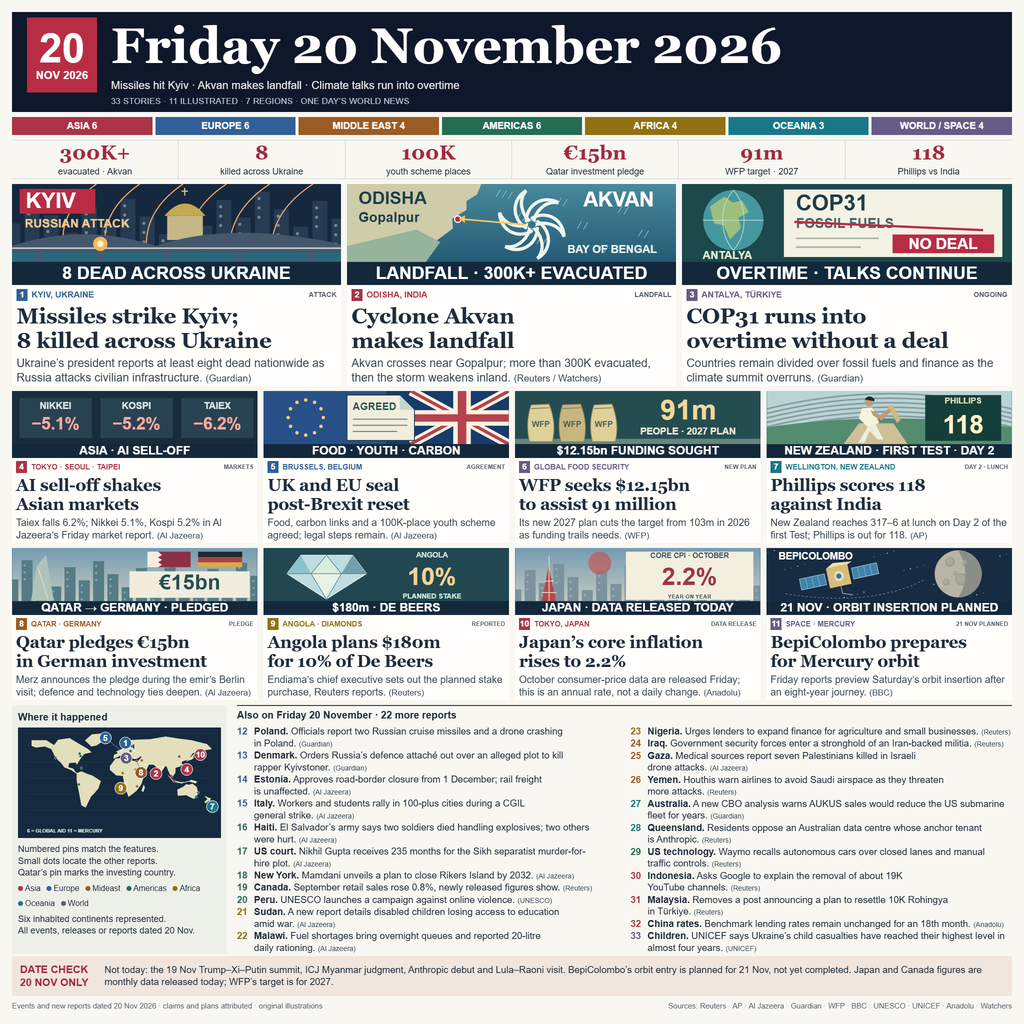
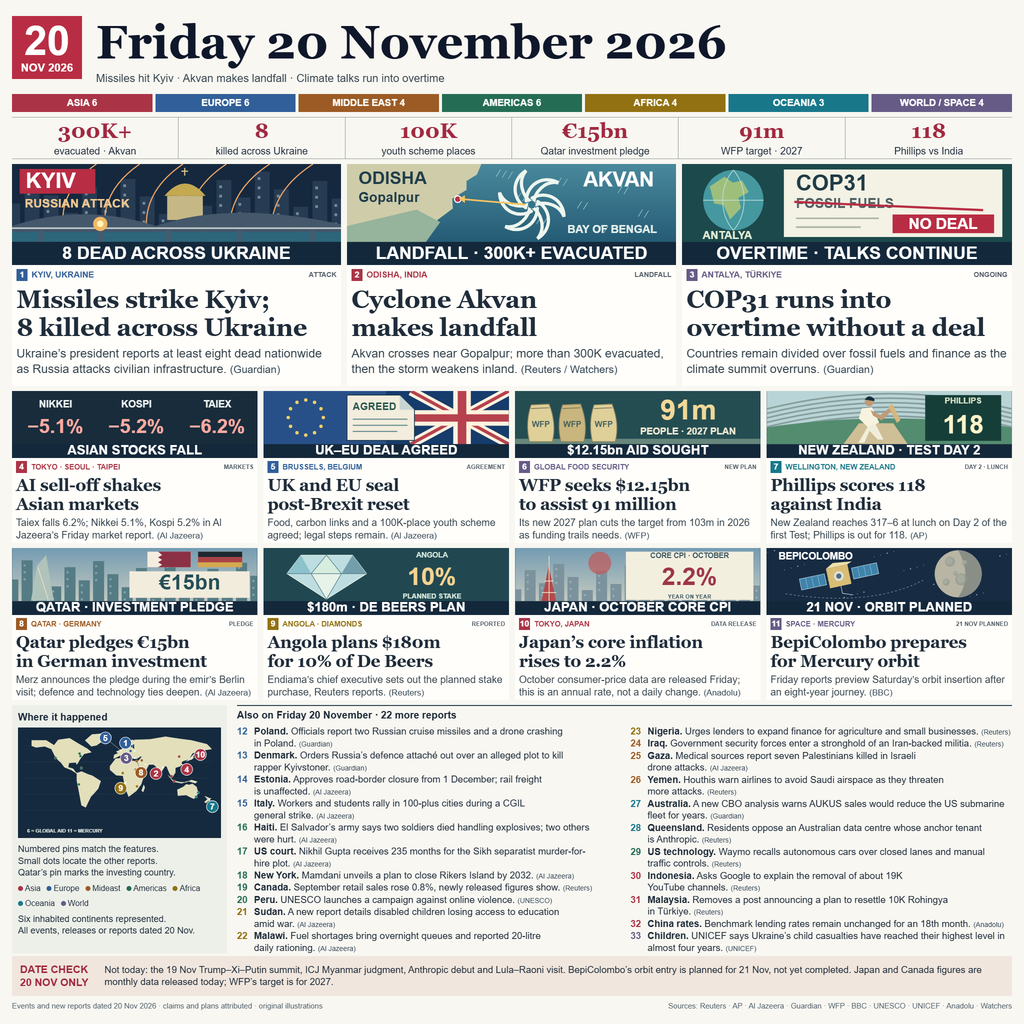
Strengthen editorial hierarchy and simplify news labels

diff --git a/render.html b/render.html
@@ -4,21 +4,20 @@
 *{box-sizing:border-box}
 html,body{margin:0;padding:0;background:#f8f7f2;color:#1f2c3a}
 body{font-family:Arial,sans-serif}
-.page{width:2048px;height:2048px;padding:24px;display:grid;grid-template-rows:200px 36px 78px 404px 304px 304px 492px 80px 22px;gap:10px}
-.date-panel{background:#0f172a;color:#fff;padding:10px 30px;display:grid;grid-template-columns:140px 1fr;column-gap:28px;align-content:center}
-.calendar{background:#b82d43;color:#fff;display:flex;flex-direction:column;justify-content:center;text-align:center;height:150px}
+.page{width:2048px;height:2048px;padding:24px;display:grid;grid-template-rows:154px 36px 84px 444px 304px 304px 492px 80px 22px;gap:10px}
+.date-panel{background:#f8f7f2; color:#0f172a; padding:6px 0; display:grid; grid-template-columns:140px 1fr; column-gap:28px; align-content:center}
+.calendar{background:#b82d43;color:#fff;display:flex;flex-direction:column;justify-content:center;text-align:center;height:126px}
 .calendar strong{font-size:82px;line-height:1}
 .calendar span{font-size:22px;font-weight:700;letter-spacing:0.01em}
-h1{font:700 100px/1.12 Georgia,serif;margin:0;white-space:nowrap}
-.date-panel .subline{font-size:22px;line-height:1.25;margin:10px 0 0;color:#e5e6e3}
-.edition-note{font-size:17px;line-height:1.25;letter-spacing:0.01em;margin:8px 0 0;color:#b9cad3}
+h1{font:700 94px/1.12 Georgia,serif;margin:0;white-space:nowrap}
+.date-panel .subline{font-size:22px;line-height:1.25;margin:6px 0 0;color:#36444e}
 .regions{display:flex;gap:6px;align-items:stretch}
 .region{flex:1;display:flex;justify-content:center;align-items:center;background:var(--region);color:#fff;font-size:19px;font-weight:700;white-space:nowrap}
-.figures{display:grid;grid-template-columns:repeat(6,1fr);align-items:center;border-top:1px solid #c8ceca;border-bottom:1px solid #c8ceca}
-.figure{text-align:center;border-right:1px solid #c8ceca;display:flex;flex-direction:column;justify-content:center;height:76px}
+.figures{display:grid;grid-template-columns:repeat(6,1fr);align-items:center;border-top:1px solid #909a95;border-bottom:1px solid #909a95}
+.figure{text-align:center;border-right:1px solid #909a95;display:flex;flex-direction:column;justify-content:center;height:82px}
 .figure:last-child{border:0}
-.figure strong{font:700 40px/1.2 Georgia,serif;color:#a12940}
-.figure span{font-size:18px;line-height:1.4;margin-top:2px}
+.figure strong{font:700 42px/1.2 Georgia,serif;color:#a12940}
+.figure span{font-size:20px;line-height:1.4;margin-top:2px}
 .stories{display:grid;gap:12px;min-height:0}
 .leads{grid-template-columns:658px 658px 660px}
 .supporting{grid-template-columns:repeat(4,1fr)}
@@ -29,9 +28,11 @@ h1{font:700 100px/1.12 Georgia,serif;margin:0;white-space:nowrap}
 .locator{display:flex;gap:8px;align-items:center;font-size:17px;font-weight:700;line-height:1.4;margin:0;color:var(--region);white-space:nowrap}
 .locator .number{display:inline-flex;min-width:22px;justify-content:center;color:#fff;background:var(--region);font-size:17px}
 .locator .kind{margin-left:auto;color:#59636c;font-size:14px}
-h2{font:700 44px/1.12 Georgia,serif;letter-spacing:-.5px;margin:6px 0}
+h2{font:700 50px/1.12 Georgia,serif;letter-spacing:-.5px;margin:9px 0}
 .summary{font-size:23px;line-height:1.25;margin:0;color:#36444e}
 .credit{font-size:19px;font-style:normal;color:#334554;white-space:nowrap}
+.leads .summary{font-size:24px;line-height:1.28}
+.leads .credit{font-size:21px}
 .supporting .scene{height:134px}
 .supporting h2{font-size:34px;line-height:1.13;margin:5px 0}
 .supporting .story-copy{padding:6px 8px 2px}
@@ -65,7 +66,7 @@ a{color:inherit}
 </style><style id="gesso-text-wrap">h1,h2,h3{text-wrap:balance}p,li,figcaption,blockquote{text-wrap:pretty}</style>
 <style id="gesso-font-smoothing">html{-webkit-font-smoothing:antialiased;-moz-osx-font-smoothing:grayscale}</style>
 </head><body><main class="page">
-<header class="date-panel"><div class="calendar"><strong>20</strong><span>NOV 2026</span></div><div><h1>Friday 20 November 2026</h1><p class="subline">Missiles hit Kyiv · Akvan makes landfall · Climate talks run into overtime</p><p class="edition-note">33 STORIES · 11 ILLUSTRATED · 7 REGIONS · ONE DAY’S WORLD NEWS</p></div></header>
+<header class="date-panel"><div class="calendar"><strong>20</strong><span>NOV 2026</span></div><div><h1>Friday 20 November 2026</h1><p class="subline">Missiles hit Kyiv · Akvan makes landfall · Climate talks run into overtime</p></div></header>
 <div class="regions"><!-- REGIONS --></div>
 <div class="figures"><!-- FIGURES --></div>
 <section class="stories leads"><!-- LEADS --></section>

diff --git a/AUDIT.md b/AUDIT.md
@@ -100,3 +100,48 @@ Final source credit type is 19px for leads and 17px for supporting features, res
 ### Transcript checkpoint
 
 The current CLI discovers both recorded OpenCode sessions, including this upgrade, without editing their store. Its bundle dry run reports that no session carries the actual system prompt; it also requires the explicit MCP declaration (no external MCP server was used). A complete new transcript bundle and its pre-submit check remain pending recovery of the authentic system-prompt setup. The prior build labelled AGENTS.md as its system prompt; that instruction file alone does not establish the actual harness prompt. Logs were not fabricated or rewritten to fill that gap. Local rendering and runtime verification are complete; this is a submission-preparation limitation.
+
+## Second local upgrade · screenshot-guided editorial hierarchy
+
+This is the current candidate; it supersedes the preceding artifact sizes and image hashes. Its anchor is local commit `da75807`, not a newly submitted entry. The user's design comparison prompted lighter paper/ink treatment, stronger emphasis on the three leads, simpler picture captions and more visible numeric context. The comparison was interpreted as qualitative feedback: the anchor's lead/support headlines were already different sizes (44/34px), and no stories were added merely to match a rival's count.
+
+Requirements and quota were rechecked before edits: standard transcript mode, `can_submit: true`. Top 1–3 were collected again before editing and refreshed at **2026-11-21T13:16:06.154Z**. Their development rates and intervals remain those in the first upgrade table: **99.2057%, 99.1696%, 99.1652%**, with overlapping intervals. Prior-day references remain separately dated and phase-labelled. The only official score for our submitted snapshot remains **98.2873% development/provisional**; neither local upgrade has a new official score.
+
+### Three focused passes, second cycle
+
+| Candidate | Measured change | PNG bytes | Geometry findings | Ministral feedback vs public #1 |
+| --- | --- | ---: | ---: | ---: |
+| H0 | Exact `da75807` anchor; lead/support headline ratio 1.294; lead row 404px | 840,793 | 0 | 88/100 |
+| H1 | Light masthead; lead headline 44→50px; lead row 404→444px; headline ratio 1.471 | 839,817 | 0 | 78/100 |
+| H2 | Supporting caption 29→32 SVGpx; shorter concrete event labels; market losses 41→48 SVGpx; remove three unnecessary filled quote boxes | 842,135 | 0 | 88/100 |
+| H3 | Fuse hierarchy/captions; lead prose 23→24px, source credits 19→21px; figure context 18→20px and numbers 40→42px | 846,548 | 0 | 88/100 |
+
+The measured headline distinction and caption sizes support the intended readability improvement; the model feedback does not prove a higher official score. H1's lower feedback is retained explicitly rather than treated as a jury gain. H2/H3 recover the anchor's 88-point feedback while improving the measured hierarchy and text sizes.
+
+Final authored / delivered / 300px-preview type: date **94 / 47 / 13.77px**; lead headlines **50 / 25 / 7.32px**; supporting headlines **34 / 17 / 4.98px**. The lighter masthead trades six percent of the previous date type size for larger leads. Brief prose remains **19 / 9.5 / 2.78px** and still needs the larger image. Both brief columns retain 19 lines. All 33 stories, seven regional counts, source URLs, factual qualifiers and ledger bytes remain unchanged; caption edits retain pledges, plans and the 21 November orbit date.
+
+The design fixer's larger figure-label line height initially exposed six number-glyph container violations. The build rejected that render before replacing the deliverable. Final masthead height is154px and figures84px (82px inner figures), with sufficient number line height; all six violations are resolved. This is one hardening correction within H3.
+
+### Current verification
+
[1 lines of base64/hex data omitted]
+- Two independent Chromium contexts produce byte-identical masters and entries; geometry has zero findings across 78 text blocks, all HTML text runs, SVG label boundaries/pairs, duplicate IDs and report sequence.
+- Ledger hashes remain those recorded in the first upgrade. The adversarial harness again detects long unbroken labels, duplicate SVG IDs and a missing report. No page errors; map-number spacing and all 33 reports remain valid.
+- PNG CRCs, complete inflated scanlines, terminal chunk and two native runtime executions pass. Two fresh offline Linux Node22.23.4 containers, 1CPU/512MB/64PIDs/read-only bot, reproduce the final hash. Local Docker-inclusive wall times are649ms and452ms, not server runtimes.
+- Final successful vision review: **88/100**, `ministral-14b-2512`. Groq/Qwen, Mistral medium and the separately selected Mistral small returned HTTP429; Gemini Flash Lite returned503, and a different Gemini Flash attempt timed out before another503. **A second successful model audit is unavailable in this cycle.** No second score is invented; the 92-point decisive-improvement threshold has not been reached.
+- Screenshot inputs are retained locally under ignored `opencode-images/`; the user-provided screenshot is not part of the deliverable.
+
+### Deterministic design check, second cycle
+
+**Verdict: SLOP (severity 2) → clean after fixes.** Final template and rendered output both pass at severity0, with zero gating findings and zero external stylesheets. Template advisory count3; rendered advisory count54.
+
+| Guard | Hits | Action | Why it matters |
+| --- | ---: | --- | --- |
+| `redundant-border` | 1 | Applied the fixer's border removal to the paper masthead | Removes redundant filled-surface framing |
+| `tight-line-height` | 1 | Applied its 1.4 line height, then allocated sufficient figure height and checked glyph bounds | Keeps figure labels and numbers within their containers |
+| `row-kicker-eyebrow` | 13 advisory, rendered | Retained geographic and factual picture labels | Labels identify the news rather than decorate an app list |
+| `multiline-row-meta` | 2 advisory | Retained complete reporting | Full sentences need more than one line |
+| `overstuffed-row` | 38 advisory, rendered | Inspected rendered cards and SVG bounds; retained | Static slot counting includes authored illustration objects |
+| `cream-default-wash` | 1 advisory | Retained the user-directed paper/ink treatment | The editorial palette is deliberate |
+
+Round2 evidence is in ignored `.makefun-kit/round2-*`; baseline and every pass have separate source snapshots, images and native/300px sheets under `G:/kits/news-image-20261120-samples/round2-*`. The earlier transcript-system-prompt blocker remains unresolved; no complete new pre-submit bundle check is claimed.

diff --git a/README.md b/README.md
@@ -41,7 +41,7 @@ At the 300 px preview, the date, main headline hierarchy and factual illustratio
 
 ## Local upgrade · 21 November
 
-The reviewed upgrade enlarges supporting headlines from 31 to 34 master pixels (15.5 to 17 pixels in the delivered image), recomposes the three lead illustrations to fill their actual card proportions, increases illustration captions, and strengthens feature-source credits and map numbers. All 33 reports and the source ledger remain byte-identical to the submitted baseline. The current PNG is 840,793 bytes. The builder validates geometry before replacing the deliverable.
+The reviewed upgrade uses a light paper masthead and gives the three lead stories more space. Lead headlines are now 50 master pixels (25 pixels delivered), while supporting headlines are 34 (17 delivered). Lead illustrations fill their actual card proportions, supporting captions use shorter event labels, and market-loss figures, source credits and map numbers are larger. All 33 reports and the source ledger remain byte-identical to the submitted baseline. The current PNG is 846,548 bytes. The builder validates geometry before replacing the deliverable.
 
 Two independent browser contexts produce identical image bytes; two fresh offline Linux Node 22.23.4 containers reproduce that same PNG. The [audit](AUDIT.md) records the three measured passes and their limits. The candidate has no new official score: the submitted baseline's development rate is 98.2873%, while the sampled leader is 99.2057%. Local critics do not establish that the upgrade beats the leader.
 
